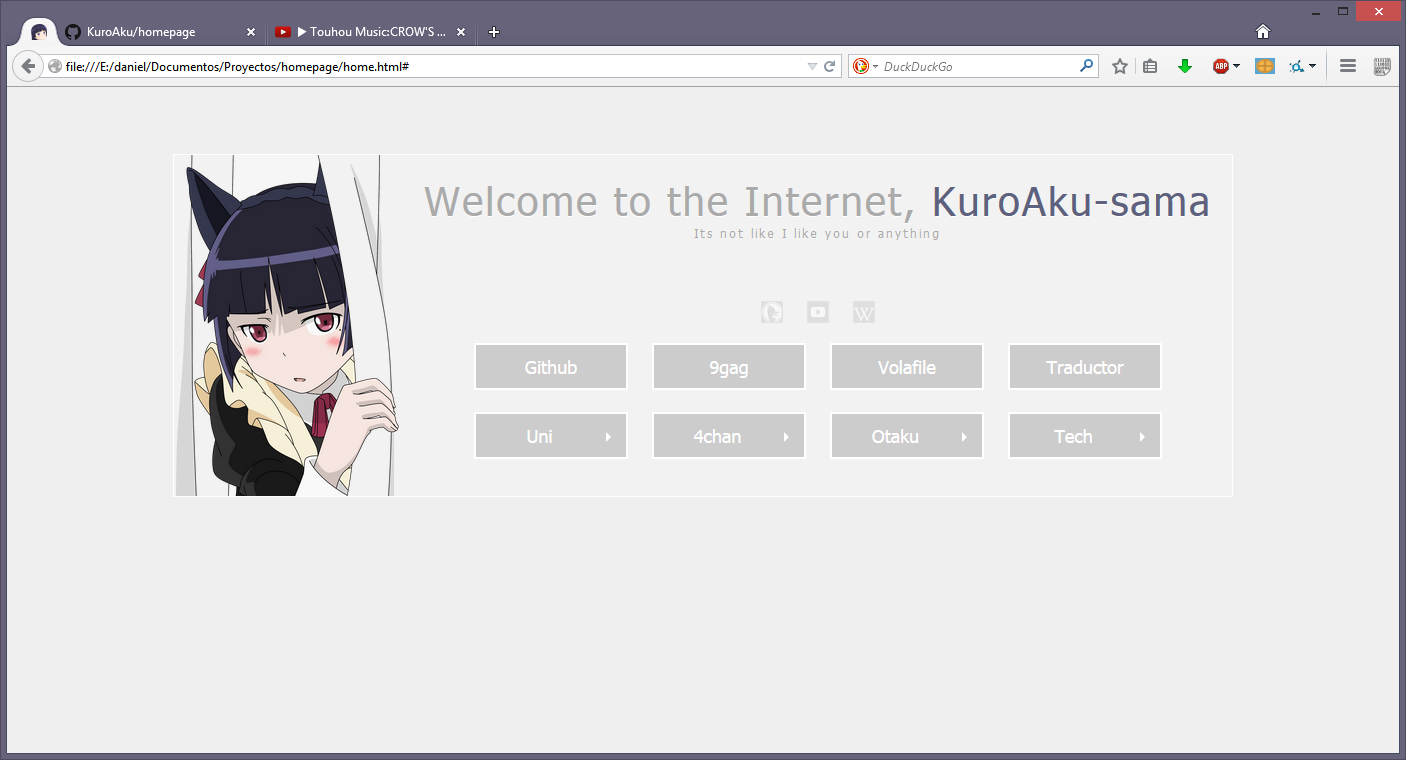
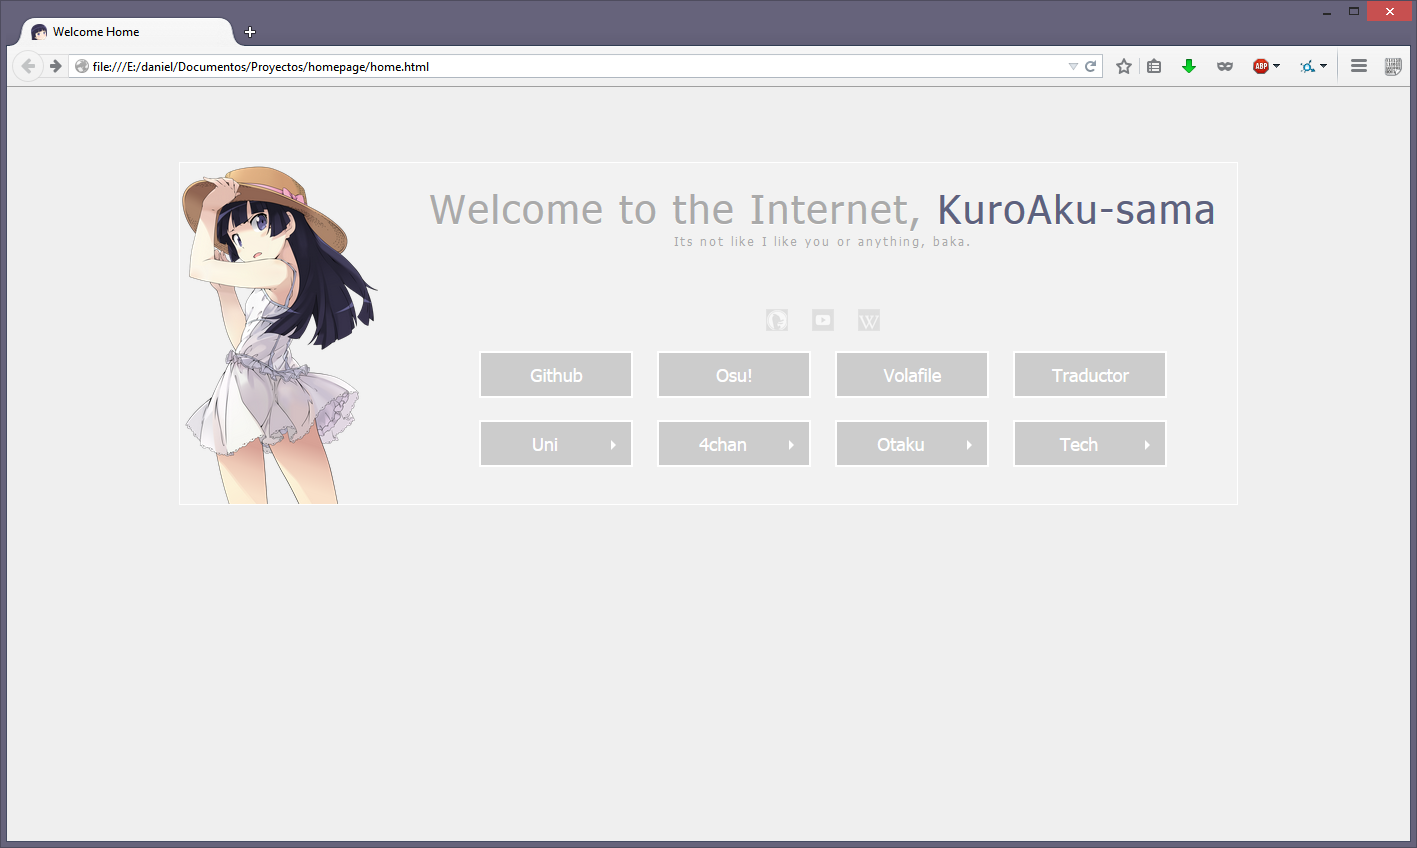
another changes

diff --git a/home.html b/home.html
@@ -12,6 +12,17 @@
         <link rel="stylesheet" style="text/css" href="css/light.css" title="Eve2" />
         <script type="text/javascript" src="js/jquery-2.1.1.min.js"></script>
         <script type="text/javascript" src="js/scripts.js"></script>
+        <script type="text/javascript">
+            function gotourl(url) {
+                location.href = url;
+            }
+
+            function handlerequest() {
+                s = document.searchForm.q;
+                alert(s);
+                alert("hola");
+            }
+        </script>
     </head>
     <body>
         <main> <!-- Random mascot image will be set as background-image by javascript -->
@@ -20,7 +31,7 @@
                 <p class="subtitle">Its not like I like you or anything, baka.</p>
             </header>
             <section class="searchContainer">
-                <form class="searchForm" method="get" action="https://duckduckgo.com/">
+                <form class="searchForm" method="get" action="https://next.duckduckgo.com/">
                     <input class="searchBar duckduckgo" type="text" name="q" placeholder="DuckDuck Go" autofocus="autofocus" />
                 </form>
                 <form class="searchForm" method="get" action="https://youtube.com/results">
@@ -33,7 +44,7 @@
             <nav>
                 <ul class="buttonList">
                     <li class="button buttonGrey"><a href="http://github.com/KuroAku">Github</a></li>
-                    <li class="button buttonGrey"><a href="http://9gag.com">9gag</a></li>
+                    <li class="button buttonGrey"><a href="http://osu.ppy.sh/">Osu!</a></li>
                     <li class="button buttonGrey"><a href="http://volafile.io/r/BEEPi">Volafile</a></li>
                     <li class="button buttonGrey"><a href="https://translate.google.es/">Traductor</a></li>
                 </ul>
